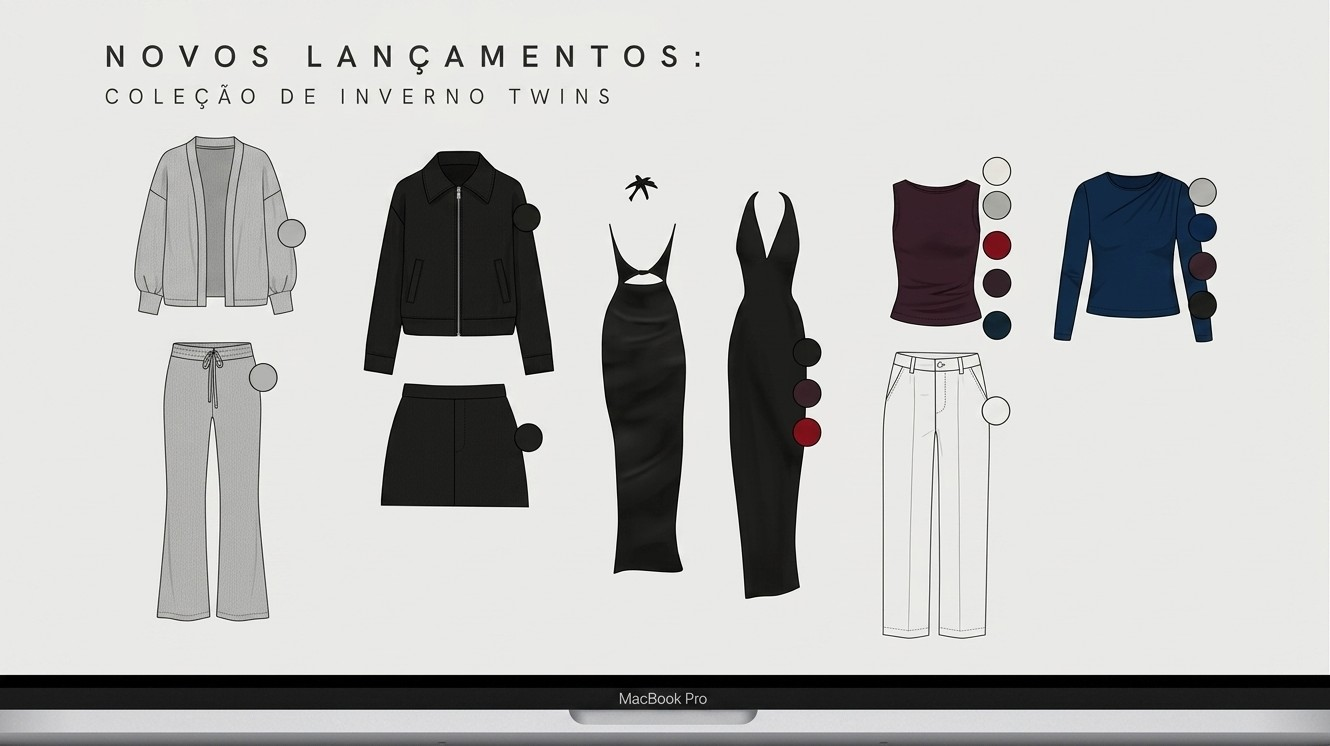
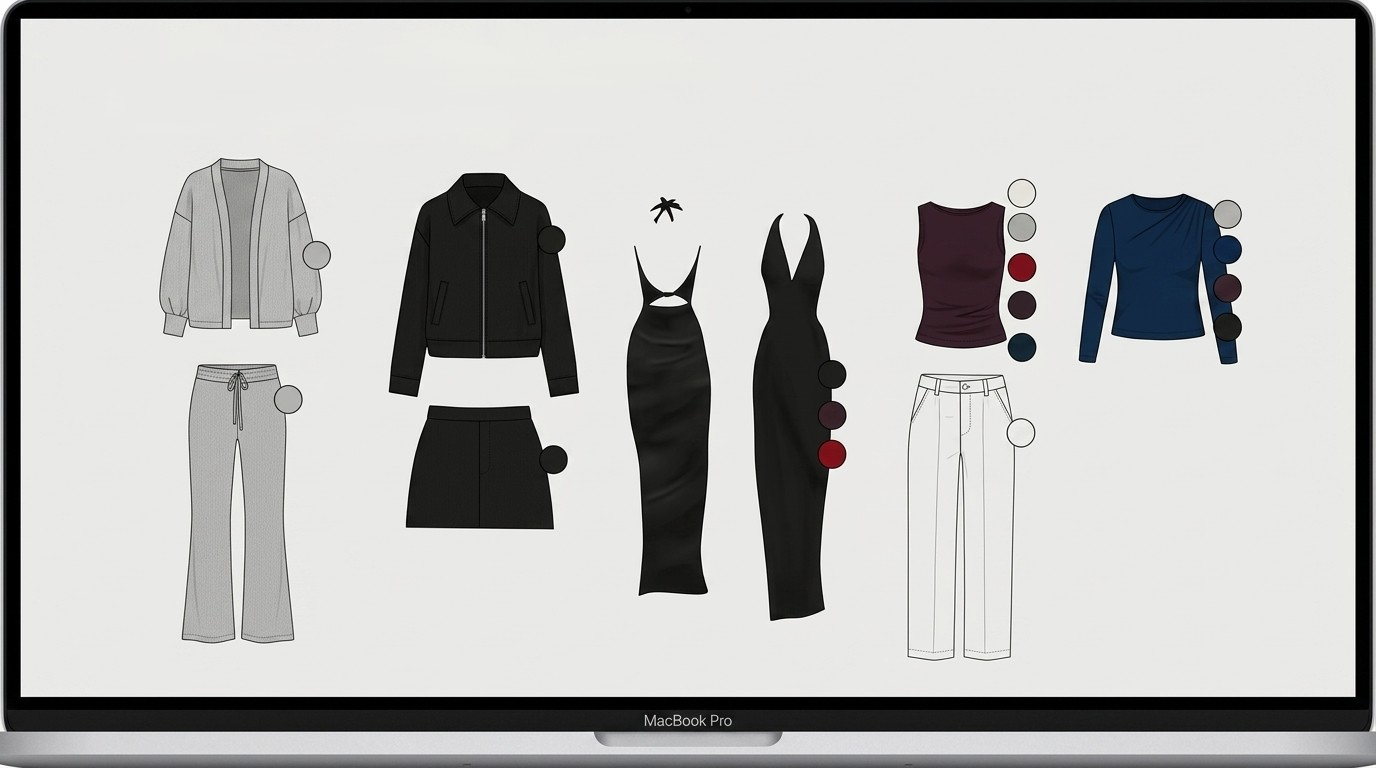
making changes to upload section

diff --git a/index.html b/index.html
@@ -256,21 +256,16 @@
             #production {
                 position: relative !important;
 
-                min-height: 520px !important;
+                min-height: 600px !important;
 
-                padding-top: 90px !important;
-                padding-bottom: 90px !important;
+                padding-top: 100px !important;
+                padding-bottom: 100px !important;
 
                 margin-top: 0 !important;
                 margin-bottom: 0 !important;
 
                 overflow: hidden !important;
 
-                /*
-                 * Explicitly load the image again on mobile.
-                 * This prevents the mobile browser from failing
-                 * to display the desktop inline background.
-                 */
                 background-image: url('Gemini_Generated_Image_a32cmma32cmma32c.jpg') !important;
 
                 background-color: #0A0A0A !important;
@@ -278,25 +273,26 @@
                 background-position: center center !important;
                 background-repeat: no-repeat !important;
 
-                border-top: 0 !important;
-                border-bottom: 0 !important;
-
+                border: none !important;
                 isolation: isolate;
             }
 
-            /*
-             * DO NOT use a ::before background layer here.
-             * The actual section background handles the image.
-             */
-
             #production::before {
-                content: none !important;
-                display: none !important;
+                content: "";
+                position: absolute;
+                inset: 0;
+
+                background:
+                    linear-gradient(to bottom,
+                        #0A0A0A 0%,
+                        rgba(10, 10, 10, 0.25) 12%,
+                        rgba(10, 10, 10, 0.25) 88%,
+                        #0A0A0A 100%);
+
+                z-index: 1;
+                pointer-events: none;
             }
 
-            /*
-             * Dark overlay
-             */
             #production>.absolute.inset-0 {
                 position: absolute !important;
                 inset: 0 !important;
@@ -304,20 +300,17 @@
                 width: 100% !important;
                 height: 100% !important;
 
-                background: rgba(0, 0, 0, 0.60) !important;
+                background: rgba(0, 0, 0, 0.58) !important;
 
-                z-index: 1 !important;
+                z-index: 2 !important;
 
                 pointer-events: none;
             }
 
-            /*
-             * Production content
-             */
             #production>.relative.z-10 {
                 position: relative !important;
 
-                z-index: 2 !important;
+                z-index: 3 !important;
 
                 width: 100%;
                 max-width: 100%;
@@ -804,13 +797,13 @@
     ========================================================= -->
 
     <section id="production"
-        class="relative py-32 bg-cover bg-center bg-no-repeat px-margin-mobile md:px-margin-desktop border-y border-white/5"
-        style="
-            background-image: url('Gemini_Generated_Image_a32cmma32cmma32c.jpg');
-            background-size: cover;
-            background-position: center center;
-            background-repeat: no-repeat;
-        ">
+    class="relative py-32 bg-cover bg-center bg-no-repeat px-margin-mobile md:px-margin-desktop overflow-hidden"
+    style="
+        background-image: url('Gemini_Generated_Image_a32cmma32cmma32c.jpg');
+        background-size: cover;
+        background-position: center center;
+        background-repeat: no-repeat;
+    ">
 
         <!-- Dark overlay -->
         <div class="absolute inset-0 bg-black/60"></div>
